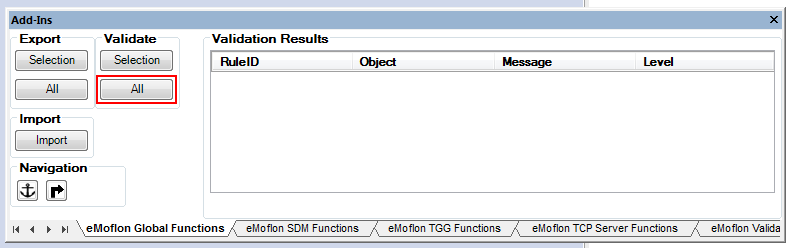
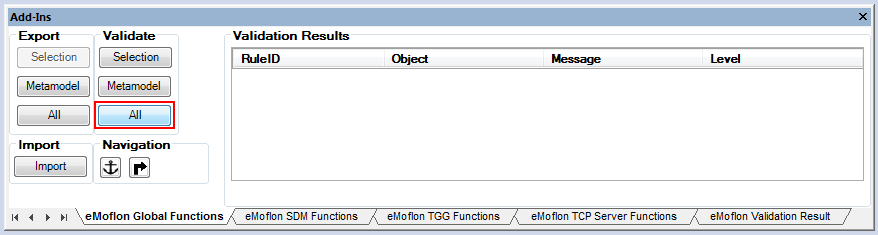
Final Edits; Ready to release to site

Changed region(s): [[0.0, 0.0, 1.0, 1.0]]

diff --git a/Handbook/04_tripleGraphTransformations/9_synchronization/syncSrc.tex b/Handbook/04_tripleGraphTransformations/9_synchronization/syncSrc.tex
@@ -55,12 +55,12 @@ shown in Fig.~\ref{eclipse:changeSrc}.
 \item[$\blacktriangleright$] Save and run the file. You'll notice that even though no changes were specified for the backward synchronization, both directions
 completed without error.
 
-\item[$\blacktriangleright$] View the results of your changes by first opening your learning box in \texttt{synch.fwd.src.xmi}. Expand \texttt{Partition 3} --
+\item[$\blacktriangleright$] View the results of your changes by first opening your learning box in \texttt{sync.fwd.src.xmi}. Expand \texttt{Partition 3} --
 is there now a fifth \texttt{Card} inside? As you can see, the synchronization saved your changes to this new file, rather than overwriting the original
 instance model.
 
-\item[$\blacktriangleright$] Open the synchronization's output file, \texttt{synch.bwd.src.xmi}. If it was successful there should be a fifth \texttt{Entry} in
-the Dictionary. Together with \texttt{synch.fwd.corr.xmi} and \texttt{synch.fwd.protocol.xmi}, this files form a new triple and will remain consistent with one
+\item[$\blacktriangleright$] Open the synchronization's output file, \texttt{sync.bwd.src.xmi}. If it was successful there should be a fifth \texttt{Entry} in
+the Dictionary. Together with \texttt{sync.fwd.corr.xmi} and \texttt{sync.fwd.protocol.xmi}, this files form a new triple and will remain consistent with one
 another!
 
 \item[$\blacktriangleright$] What if we wanted to make a change in the other direction? Let's try deleting an entry while keeping all four partitions. Open
@@ -76,24 +76,24 @@ the synchronization's Java file again and locate \texttt{changeTrg}. Complete it
 \end{center}
 \end{figure}
 
-\item[$\blacktriangleright$] Run the synchronization a final time, and refresh the ``instances'' folder. Open and inspect both \texttt{synch.bwd.src.xmi} and
-\texttt{synch.\-bwd.\-trg.\-xmi}. If everything has executed correctly, \texttt{Card Question One} should be missing from \texttt{partition0}, and
-\texttt{partition3} still exists! Equivalently, there should only be four \texttt{Entry} elements in the output \texttt{Dictionary}.
+\item[$\blacktriangleright$] Run the synchronization a final time, and refresh the ``instances'' folder. Open and inspect both \texttt{sync.bwd.src.xmi} and
+\texttt{sync.\-bwd.\-trg.\-xmi}. If everything has executed correctly, \texttt{Card Question One} should be missing from \texttt{partition0}, and
+\texttt{partition3} still exists! Equivalently, there should only be four \texttt{Entry} elements in the output \texttt{Dict\-ion\-ar\-y}.
 
 \item[$\blacktriangleright$] You may have noticed that there is no \texttt{Entry Five}, which we added to \texttt{partition3} in the forward
 synchronization. Recall that the process loads and makes changes to the \emph{original} triple, not the most recent copies. The files are simple Java code, so
 you are invited to modify them as you wish for your own projects.
 
-\item[$\blacktriangleright$] Let's try running the integrator on \texttt{synch.fwd.corr.xmi} with \texttt{synch.\-fwd.\-prot\-o\-col.\-xmi}.
+\item[$\blacktriangleright$] Let's try running the integrator on \texttt{sync.fwd.corr.xmi} with \texttt{sync.\-fwd.\-prot\-o\-col.\-xmi}.
 
 \item[$\blacktriangleright$] Proceed through the synchronization step-by-step as far as possible. It takes hardly any time at all! In fact, all it shows is the
 green creation of \texttt{Five : Feunf} and its link. Recall that this visualization is based on the protocol process, which for this synchronization, only
 added a new card. The four partitions or dictionary container already existed. Their creation is included in the \texttt{fwd.protocol.xmi} generated
 after running \texttt{LearningBoxToDictionaryIntegrationTrafo.java}.
 
-\item[$\blacktriangleright$] As a final point, run the integrator on \texttt{synch.bwd.corr.xmi} with \texttt{synch.bwd.protocol.xmi} and try to step through.
-No, it isn't a bug -- you can't do anything because the only update in the backward direction was a deletion of an element, now missing from the correspondence
-model. Remember from the discussion in Section 4 that TGGs are by definition, monotonic. This means TGGs may only specify the build-up of models; A different
+\item[$\blacktriangleright$] As a final point, run the integrator on \texttt{sync.bwd.corr.xmi} with \texttt{sync.\-bwd.\-pro\-to\-col.\-xmi} and try to step
+through. No, it isn't a bug -- you can't do anything because the only update in the backward direction was a deletion of an element, now missing from the
+correspondence model. Remember from the discussion in Section 4 that TGGs are by definition, monotonic. This means TGGs may only specify the build-up of models; A different
 process takes care of an element's deletion.
 
 \end{itemize}

diff --git a/Handbook/01_installation/2_simpleDemo/EADemo/firstLookEA.tex b/Handbook/01_installation/2_simpleDemo/EADemo/firstLookEA.tex
@@ -13,8 +13,10 @@ In the meantime, do not rename, move, or delete anything.
 
 \item[$\blacktriangleright$] Double-click \texttt{Demo.eap} to start EA, and choose \texttt{Ultimate} when starting EA for the first time.
 
-\item[$\blacktriangleright$] In EA, navigate to ``Extensions/MOFLON::Ecore Addin/Validate All'' (Fig.~\ref{ea:validate_dropdown}). Not only will this check
-your diagram for errors, it will export your files to your Eclipse workspace once it's successful.
+\item[$\blacktriangleright$] In EA, navigate to and select ``Extensions/Add-In Windows'' (Fig.~\ref{ea:validate_dropdown}). This will activate our tool's full
+control panel.
+
+\vspace{0.5cm}
 
 \begin{figure}[htbp]
 	\centering
@@ -23,10 +25,8 @@ your diagram for errors, it will export your files to your Eclipse workspace onc
 	\label{ea:validate_dropdown} 
 \end{figure}
 
-\item[$\blacktriangleright$] Please note that this submenu is limited, and does not provide access to all eMoflon functionality. You can activate eMoflon's full
-control panel by enabling ``Extensions/Add-In Windows'' (Fig.~\ref{ea:validate_dropdown}). To export from here, click \texttt{All} in the ``Validate''
-section (Fig.~\ref{ea:controlPanel})
-
+\item[$\blacktriangleright$] This tabbed control panel provides access to all of eMoflon's functionalit. This is where you can validate and export your complete
+project to Eclipse by pressing \texttt{All} (Fig.~\ref{ea:controlPanel}).
 
 \begin{figure}[htbp]
 	\centering
@@ -60,7 +60,7 @@ Eclipse workspace after an export.
 \vspace{0.5cm}
 
 \item[$\blacktriangleright$] If you're ever worried about forgetting to refresh your workspace, or if you just don't want to bother with having to do this,
-Eclipse does offer an option to do it for you automatically. To activate this, go to ``Window/Preferences/General/Workspace" and select \texttt{refresh on
+Eclipse does offer an option to do it for you automatically. To activate this, go to ``Window/Preferences/General/Workspace" and select \texttt{Refresh on
 access}.
 
 \end{itemize}

diff --git a/Handbook/03_storyDiagrams/04_checkCard/visCheckCard.tex b/Handbook/03_storyDiagrams/04_checkCard/visCheckCard.tex
@@ -81,7 +81,7 @@ and set the \emph{Guard Type} to \texttt{Failure} (Fig.~\ref{ea:sdm_check_guard}
 
 \end{itemize}
 
-One great feature of eMolfon (with EA) is a means of coping with large patterns. It might be nice to visualise \emph{small} story patterns directly in their
+One great feature of eMoflon (with EA) is a means of coping with large patterns. It might be nice to visualise \emph{small} story patterns directly in their
 nodes (such as \texttt{removeCardFromPartition}), but for large patterns or complex control flow, such diagrams would get extremely cumbersome and unwieldy
 \emph{very} quickly! This is indeed a popular argument against visual languages and it might have already crossed your mind -- ``This is cute, but it'll
 \emph{never} scale!'' With the right tools and concepts however, even huge diagrams can be mastered. eMoflon supports \emph{extracting} story patterns into
@@ -91,7 +91,7 @@ supports separating your transformation's pattern layer from its imperative cont
 
 \begin{itemize}
 
-\item[$\blacktriangleright$] To try this, double-click the \texttt{promoteCard} story node and choose \texttt{Extract Story Pattern}
+\item[$\blacktriangleright$] To try this, double-click the \texttt{promoteCard} story node and choose \texttt{Ext\-ract Story Pattern}
 (Fig.~\ref{ea:sdm_check_extract_storypattern}). Note the new diagram that is immediately created and opened in the project browser
 (Fig.~\ref{ea:sdm_new_sub_diagram}).
 
@@ -160,7 +160,7 @@ gesture. Don't worry -- if you ever need option (1), hold \texttt{Ctrl} when dra
 \vspace{0.5cm}
 
 \item[$\blacktriangleright$] Currently, we have the single \texttt{card} that we want to promote through the box. Drag-and-drop two partition objects,
-\texttt{this}, and \texttt{nextPartition} as depicted in Fig.~\ref{ea:sdm_check_complete_sp}.
+\texttt{this}, and \texttt{next\-Part\-it\-ion} as depicted in Fig.~\ref{ea:sdm_check_complete_sp}.
 
 \vspace{0.5cm}
 

diff --git a/Handbook/03_storyDiagrams/03_removeCard/texRemoveCard.tex b/Handbook/03_storyDiagrams/03_removeCard/texRemoveCard.tex
@@ -10,7 +10,8 @@ proper method declaration. This entire scope can be referred to as the method's 
 transformation is defined.
 
 \item[$\blacktriangleright$] Complete the activity with a single pattern and return statement as depicted in Fig~\ref{eclipse:remCardDec}. Don't forget -- you
-can use eMolfon's auto-complete feature here! Press \texttt{ctrl + space} on an empty line, then select the pattern template to establish \texttt{deleteSingleCard}.
+can use eMoflon's auto-complete feature here! Press \texttt{Ctrl + spacebar} on an empty line, then select the pattern template to establish
+\texttt{deleteSingleCard}.
 
 \item[$\blacktriangleright$] Note that in this context, the \texttt{`@'} operator indicates an \emph{ObjectVariableExpression}%
 \define{ObjectVariable\-Expression}. This expression implicitly refers to object variables from the preceding story node. In \texttt{removeCard}'s case, the
@@ -32,7 +33,7 @@ rules are modeled in separate \emph{pattern} files. In this case, \texttt{remove
 \vspace{0.5cm}
 
 \item[$\blacktriangleright$] Save \texttt{Partition.eclass}. An error should immediately appear below the editor. In the ``Problems'' tab, the message
-states that the builder cannot find the specified pattern file. Well, this makes sense. You haven't created it yet! Click this message and press \texttt{ctrl +
+states that the builder cannot find the specified pattern file. Well, this makes sense. You haven't created it yet! Click this message and press \texttt{Ctrl +
 1} to invoke a ``Quick Fix'' dialogue (Fig~\ref{eclipse:quickFix}). It offers to create a pattern file for you. Given that's exactly what you'd like, select the
 option and press \texttt{Finish}.
 

diff --git a/Handbook/04_tripleGraphTransformations/4_rules/visRules.tex b/Handbook/04_tripleGraphTransformations/4_rules/visRules.tex
@@ -12,7 +12,7 @@ hexagonal boxes, while attribute constraints are depicted as notes, referencing 
 
 \item[$\blacktriangleright$] In EA, open the \texttt{Rules} diagram of your TGG project we pointed out earlier. Create your first rule by either hitting the
 \texttt{spacebar} and selecting \texttt{Rule} from the context menu, or performing a drag-and-drop of the \texttt{Rule} item from the TGG toolbox to the left of
-the diagram window (Fig.~\ref{ea:create_tgg_rule}). Press \texttt{alt + enter} to raise its \texttt{Properties} dialogue, and update its name to
+the diagram window (Fig.~\ref{ea:create_tgg_rule}). Press \texttt{Alt + Enter} to raise its \texttt{Properties} dialogue, and update its name to
 \texttt{BoxToDictionaryRule}.
 
 \vspace{0.5cm}
@@ -28,7 +28,7 @@ the diagram window (Fig.~\ref{ea:create_tgg_rule}). Press \texttt{alt + enter} t
 \vspace{0.5cm}
 
 \item[$\blacktriangleright$] Double-click the element to open its rule diagram. Drag-and-drop \texttt{Box} from the project browser into the diagram once
-again, choosing to paste the element as an \texttt{instance}.\footnote{If the `Paste Element' dialogue doesn't appear, hold \texttt{ctrl} while dragging and
+again, choosing to paste the element as an \texttt{instance}.\footnote{If the `Paste Element' dialogue doesn't appear, hold \texttt{Ctrl} while dragging and
 dropping and confirm you haven't selected the autosave option under \texttt{options}.} The \texttt{name} and \texttt{binding operator} should already be set to
 \texttt{box} and \texttt{create}. Repeat the action to create an instance of \texttt{Dictionary}.
 

diff --git a/Handbook/04_tripleGraphTransformations/3_schema/visSchema.tex b/Handbook/04_tripleGraphTransformations/3_schema/visSchema.tex
@@ -62,7 +62,7 @@ and underlying diagram with the same name are also generated.
 \item[$\blacktriangleright$] Now it's time to reference classes from the source and target projects in the TGG project to declare the first \emph{correspondence
 type} between them. Confirm the new TGG schema diagram is open in the editor, then hold \texttt{ctrl} and drag-and-drop the \texttt{Box} class from
 \texttt{Learning\-Box\-Language} into the window. Paste the class as a simple \texttt{link} into the diagram (Fig.~\ref{ea:TGGdragDrop}). For reference, each
-attribute and operation is included in the diagram.\footnote{Take caution: If you press \texttt{ctrl + delete} to delete the element in this diagram,
+attribute and operation is included in the diagram.\footnote{Take caution: If you press \texttt{Ctrl + Delete} to delete the element in this diagram,
 you will also delete it from its original metamodel package!}
 
 \vspace{0.5cm}

diff --git a/Handbook/04_tripleGraphTransformations/4_rules/texRules.tex b/Handbook/04_tripleGraphTransformations/4_rules/texRules.tex
@@ -148,8 +148,8 @@ cardToEntry : CardToEntry -> entry}
 
 \item[$\blacktriangleright$] Finally, let's make sure the transformation handles the \texttt{card} and \texttt{entry} attributes correctly. Complete each of
 your \texttt{box}, \texttt{partition0}, and \texttt{dictionary} object variable scopes with the relevant references until your rule matches
-Fig.~\ref{eclipse:c2eAllReferences}.\footnote{Don't forget that eMoflon's type completion can help you establish references here; Press \texttt{ctrl + space
-bar} after writing \texttt{->} for a list of available link variables from the relevant \texttt{eclass}.}
+Fig.~\ref{eclipse:c2eAllReferences}.\footnote{Don't forget that eMoflon's type completion can help you establish references here; Press \texttt{Ctrl + spacebar}
+after writing \texttt{->} for a list of available link variables from the relevant \texttt{eclass}.}
 
 \newpage
 

diff --git a/Handbook/03_leitnersLearningBox/2_staticSemantics/2_definingClasses/defClasses_tex.tex b/Handbook/03_leitnersLearningBox/2_staticSemantics/2_definingClasses/defClasses_tex.tex
@@ -78,7 +78,7 @@ stop after typing the \texttt{`:'} operator and press the hotkeys. The pop-up li
 
 \item[$\blacktriangleright$] That's it for declaring class attributes! Feel free to build your project again and view the changes in the \texttt{.ecore}
 mode, and the generated files in ``gen" and ``src." On a final note, while some languages (such as Java) allow the declaration of several small classes (such as
-these three) in the same file, when tooling with eMolfon, we keep them separated. Don't worry - we'll explain this later in the handbook. As for now, continue
+these three) in the same file, when tooling with eMoflon, we keep them separated. Don't worry -- we'll explain this later in the handbook. As for now, continue
 to the next section to start creating references between these EClasses.
 
 \end{itemize}

diff --git a/Handbook/03_leitnersLearningBox/src/learningBox_conclusion.tex b/Handbook/03_leitnersLearningBox/src/learningBox_conclusion.tex
@@ -13,7 +13,7 @@ If you enjoyed this section and wish to fully develop \emph{all} the methods we 
 Diagrams! Story Diagrams are a powerful feature of eMoflon as we can model a large part of a system's dynamic semantics via high-level pattern rules. 
 
 
-Of course, you're always free to pick a different part of the handbook if you feel like skipping ahead and checking out some of the other features eMolfon has
+Of course, you're always free to pick a different part of the handbook if you feel like skipping ahead and checking out some of the other features eMoflon has
 to offer. Check out Triple Graph Grammars (TGGs)  in Part IV, or Model-to-Text Transformations in Part V. We'll provide instructions on how to easily download
 all the required resources so you can start without having to complete the previous parts.
 

diff --git a/Handbook/04_tripleGraphTransformations/6_integrator/integratorSrc.tex b/Handbook/04_tripleGraphTransformations/6_integrator/integratorSrc.tex
@@ -21,7 +21,7 @@ via the \texttt{link} (correspondence) metamodel.
 \end{center}
 \end{figure}
 
-\item[$\blacktriangleright$] Drag and drop \texttt{bwd.protocol.xmi} into the main window.\footnote{If the integrator window minimizes, press \texttt{alt+tab}
+\item[$\blacktriangleright$] Drag and drop \texttt{bwd.protocol.xmi} into the main window.\footnote{If the integrator window minimizes, press \texttt{Alt+Tab}
 to re-activate it} You will be able to see the controls for navigating through the transformation process explained in the lower part of the window.
 
 \item[$\blacktriangleright$]  Use \texttt{Alt+Right} to navigate forwards through the transformation, and \texttt{Alt+Left} to go backwards. A brief description

diff --git a/Handbook/03_storyDiagrams/10_stringRep/texStringRep.tex b/Handbook/03_storyDiagrams/10_stringRep/texStringRep.tex
@@ -7,7 +7,7 @@
 
 \begin{itemize}
   
-\item[$\blacktriangleright$] Closely following Fig.~\ref{fig:goal_stringRep}, create a nested \texttt{forEach} loop in \texttt{Box.toString()}.
+\item[$\blacktriangleright$] Closely following Fig.~\ref{fig:goal_stringRep}, create a nested \texttt{forEach} loop in \texttt{Box.\-to\-Str\-ing()}.
 Don't worry about invoking \texttt{addToStringRep} yet -- just make sure you return the \texttt{this.stringRep} attribute. It should resemble
 Fig.~\ref{eclipse:emptyLoops}. \texttt{this.stringRep} is referred to as an \emph{AttributeValueExpression}\define{AttributeValue\-Expression} as it
 accesses an attribute value of an object variable (\texttt{this}) via a `.' (dot) operator.

diff --git a/Handbook/03_storyDiagrams/07_invertCard/invertClose.tex b/Handbook/03_storyDiagrams/07_invertCard/invertClose.tex
@@ -16,7 +16,7 @@ activity node without using a special expression type. In this SDM, this means \
 of the same name in the previous node, \texttt{Initialize temp}. This binding feature enables you to refer to previous matches for object variables in the
 preceding control flow.
 
-On a separate note, you're just over halfway through working through this part of the eMoflon handbook, so give your brain a small break. Take a walk, pour
+On a separate note, you're just over halfway through completing this part of the eMoflon handbook, so give your brain a small break. Take a walk, pour
 yourself another coffee, and check out one of my favourite jokes:
 \syntax{How do you wake up Lady Gaga?}
 
